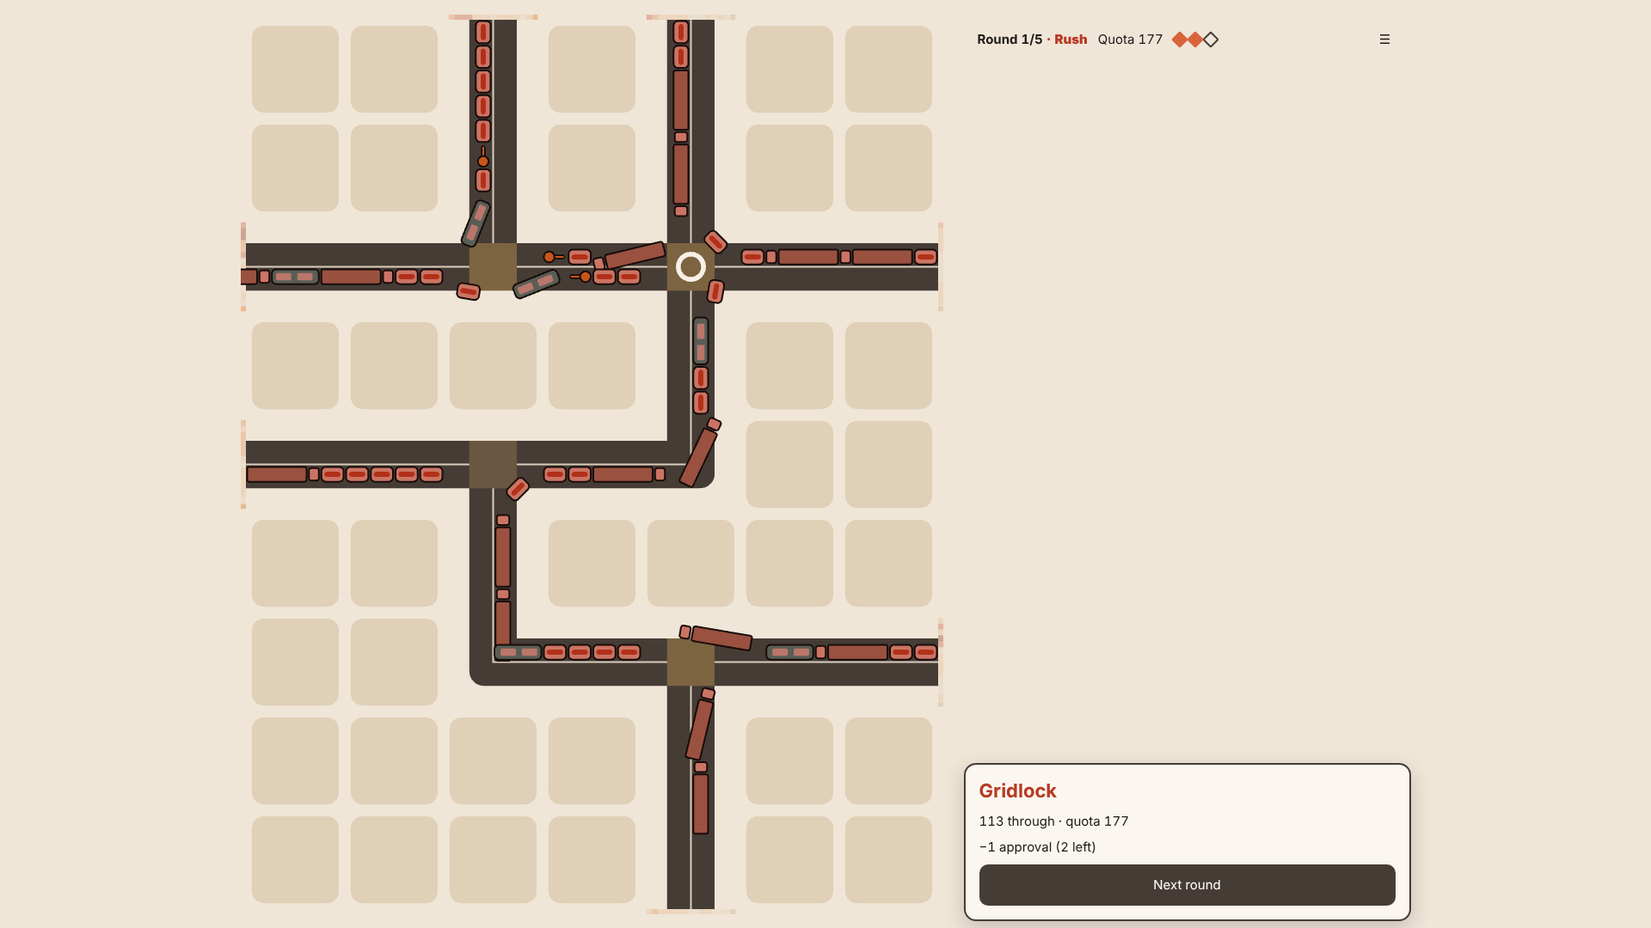
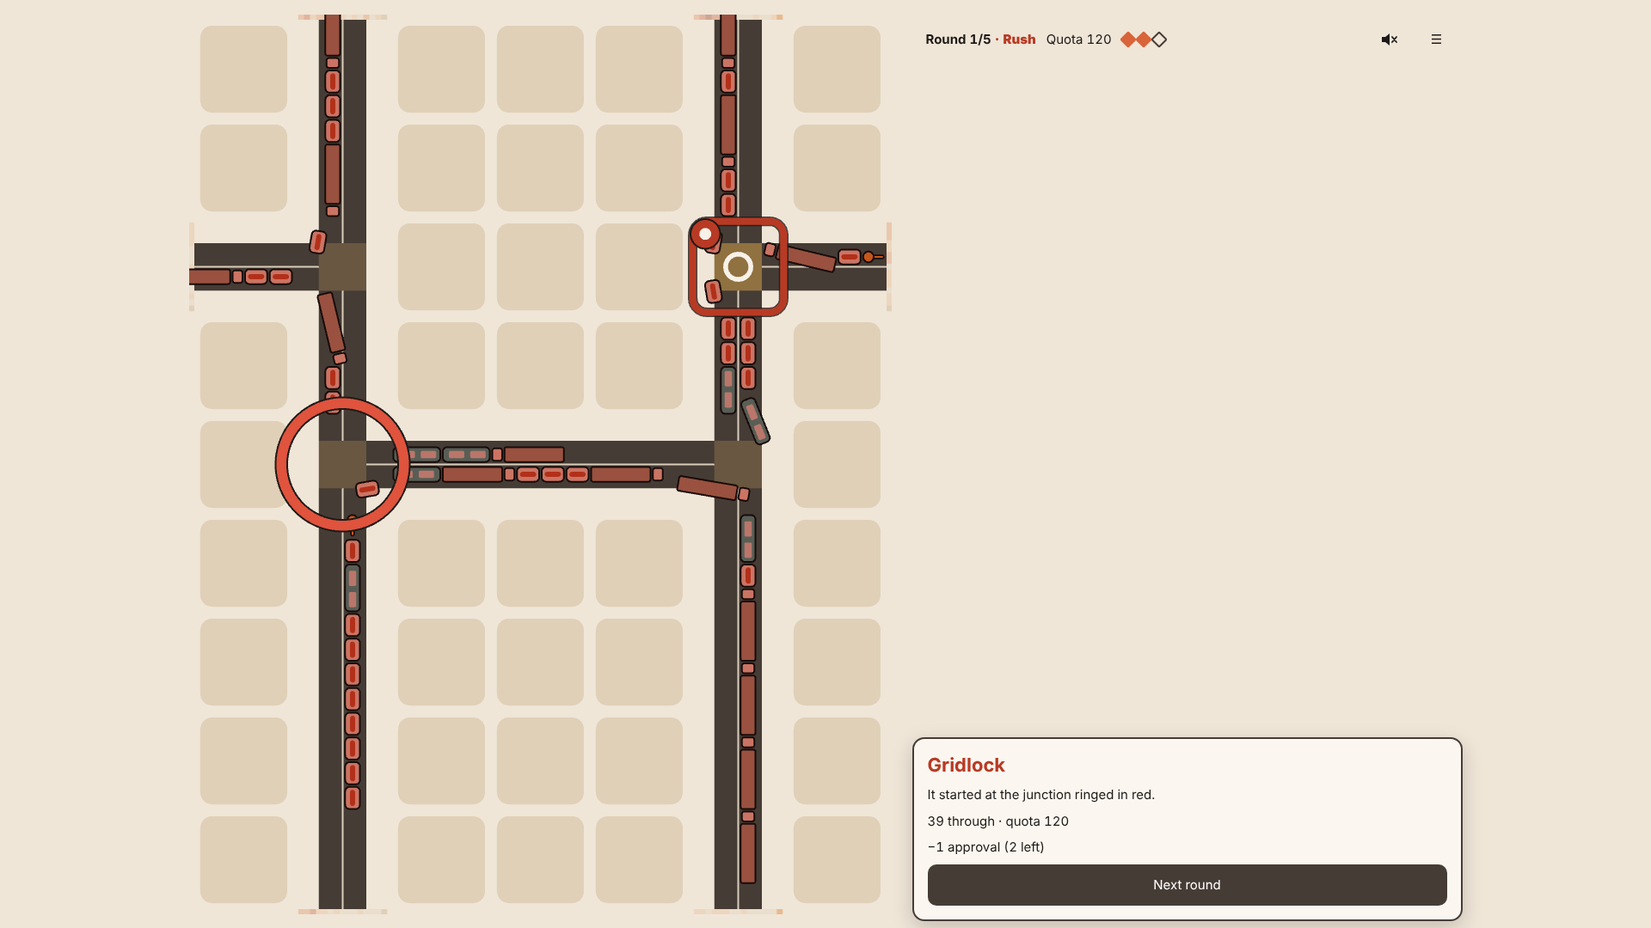
test(web): steam shots with the gridlock ring, e2e-10 origin check, gate page at 72bb91f
- Store shots re-taken at 72bb91f (#89, #90). The gridlock scene picks
  the lowest seed whose Market Day round still gridlocks with the placed
  card (seed 6) and requires H2 data-gridlock-origin, so the ring shows.
- E2E-10 plays round by round and checks data-gridlock-origin: set on
  the gridlocked round's result only, empty on every place phase.
- Gate page refreshed at 72bb91f: CI green, soak clean, no fixme left,
  shots re-taken, and the latest.md deliverables row cites 8274c2c (#87).

Claude-Session: https://claude.ai/code/session_011DFm8xVJg2F21LdZFEKgmC

Changed region(s): [[0.0938, 0.0, 0.875, 1.0]]

diff --git a/packages/platform-web/e2e/store/run-screen.spec.ts b/packages/platform-web/e2e/store/run-screen.spec.ts
@@ -16,8 +16,16 @@ import { attr, openToy, pressGo, selectPlayable, skipOffer, state } from '../toy
 
 const OUT = fileURLToPath(new URL('../../../../docs/store/screenshots/', import.meta.url));
 
-/** The Market Day clip's seed (tools/clip MARKET_DAY_SEED): with Roundabout, round 1 still jams. */
-const JAM_SEED = 93;
+/**
+ * Seeds whose round 1 (Market Day) gridlocks with no cards, lowest first. The shot places one card,
+ * which can cure the jam, so the spec takes the first of these that still gridlocks with it.
+ */
+function jamSeeds(): number[] {
+  const out: number[] = [];
+  for (let seed = SEED_RANGE.from; seed <= SEED_RANGE.to && out.length < 8; seed++)
+    if (noCardRun(seed).rounds[0]?.gridlocked) out.push(seed);
+  return out;
+}
 
 async function shot(page: Page, name: string): Promise<void> {
   // Let the scene draw a few frames after the last state change.
@@ -47,20 +55,27 @@ test.beforeAll(() => {
 });
 
 test('Market Day: place a card, watch it jam, gridlock', async ({ page }) => {
-  await openToy(page, JAM_SEED);
-  await selectPlayable(page);
-  await page.keyboard.press('ArrowRight'); // ghost preview on a target
-  await expect(state(page)).not.toHaveAttribute('data-cursor', '');
-  await shot(page, '1-place');
+  for (const seed of jamSeeds()) {
+    await openToy(page, seed);
+    await selectPlayable(page);
+    await page.keyboard.press('ArrowRight'); // ghost preview on a target
+    await expect(state(page)).not.toHaveAttribute('data-cursor', '');
+    await shot(page, '1-place');
 
-  await page.keyboard.press('Enter');
-  await expect(state(page)).not.toHaveAttribute('data-placed', '');
-  await pressGo(page);
-  await page.waitForTimeout(6_000);
-  await shot(page, '2-rush');
+    await page.keyboard.press('Enter');
+    await expect(state(page)).not.toHaveAttribute('data-placed', '');
+    await pressGo(page);
+    await page.waitForTimeout(6_000);
+    await shot(page, '2-rush');
 
-  await expect(state(page)).not.toHaveAttribute('data-phase', 'go', { timeout: 120_000 });
-  await shot(page, '3-gridlock');
+    await expect(state(page)).not.toHaveAttribute('data-phase', 'go', { timeout: 120_000 });
+    // The scene rings the junction where the jam began (#90); H2 names it.
+    if ((await attr(page, 'gridlock-origin')) === '') continue;
+    await shot(page, '3-gridlock');
+    console.log(`[store] gridlock shots from seed ${seed}`);
+    return;
+  }
+  throw new Error('no seed gridlocks round 1 with the placed card');
 });
 
 test('a pass, the card offer, the Parade, and the run end', async ({ page }) => {

diff --git a/packages/platform-web/e2e/toy/toy.spec.ts b/packages/platform-web/e2e/toy/toy.spec.ts
@@ -272,7 +272,24 @@ test.describe('toy flow', () => {
       test.setTimeout(120_000);
       const run = need('gridlock');
       await openToy(page, run.seed);
-      await playNoCards(page);
+      // Played round by round (playNoCards without the shortcut) to read H2
+      // `data-gridlock-origin` on each result: the junction the scene rings (#90), set only
+      // after a gridlock and cleared when the next place phase starts.
+      const origins: string[] = [];
+      while ((await attr(page, 'phase')) === 'place') {
+        await expect(state(page)).toHaveAttribute('data-gridlock-origin', '');
+        await pressGo(page);
+        await holdRound(page);
+        await expect(state(page)).toHaveAttribute('data-phase', /result|end/);
+        origins.push(await attr(page, 'gridlock-origin'));
+        await skipOffer(page);
+      }
+      await expect(state(page)).toHaveAttribute('data-phase', 'end');
+      run.rounds.forEach((r, i) => {
+        const at = `seed ${run.seed} round ${i + 1}`;
+        if (r.gridlocked) expect(origins[i], at).toMatch(/^\d+,\d+$/);
+        else expect(origins[i], at).toBe('');
+      });
       const marks = (await attr(page, 'history')).split(',');
       expect(marks, `seed ${run.seed}`).toEqual(run.rounds.map((r) => r.mark));
       const share = (await page.getByLabel('Share text').textContent()) ?? '';

diff --git a/docs/release/phase-1-gate.md b/docs/release/phase-1-gate.md
@@ -1,6 +1,6 @@
 # Phase 1 gate: go / no-go
 
-**DRAFT (P1-QA-04).** Evidence as of 2026-10-11, `main` at 061bb07 (after CON-06, #87). QA keeps this page current until the
+**DRAFT (P1-QA-04).** Evidence as of 2026-10-11, `main` at 72bb91f (after the HUD fix #89 and the readability pass #90). QA keeps this page current until the
 gate review. It does not recommend go or no-go.
 
 GDD §13: the validation toy passes when **two of the four criteria pass. Idan decides go/no-go.**
@@ -28,7 +28,7 @@ after those steps, so his sign-off comes first.
 | --- | ----------------------------------------- | -------------------------------------------------------------------------------------------------- | --------------------------------- | ----------------------------------------------------------------------------------------------------------------------------------------------------------------------------------------------------------------------------------------------------------------------------------------------------- | ---------------------------------------------------------------------------------------------------------------------------------------------------------------------------------------------------------------------------------------------------------------------------------------------------------------------------------------------------------------------- |
 | 1   | 200+ itch plays, median session > 2 min   | ≥ 200 plays (itch's count) and median session > 120 s, over 14 days from the first public post     | **Pending** (needs real players)  | Nothing yet. `/ingest` and the session query exist (#20). Analytics stay off until the policy is published (#77).                                                                                                                                                                                     | **Idan:** publish the privacy policy, make the itch page public, post. **Backend:** deploy `/ingest` on Idan's Cloudflare account and run the session query on day 15. **Idan:** export itch's play count. If the window opens before the policy is live, this is "not measured", not "fail".                                                                          |
 | 2   | 5 archetypes with 35–65% win rates in sim | All five `archetype(tag)` bots in 35–65%, 10,000 12-round D1 runs each, at the itch build's commit | **Provisional pass (5 of 5)**     | [`docs/balance/latest.md`](../balance/latest.md), regenerated at `8274c2c` (#87): FLOW 43.4%, MASS 45.3%, TOLL 51.3%, CHAOS 50.8%, TEMPO 37.7%, the same as at `28f6aee` (#76), because CON-06's demand factor is toy-only (ADR-032). TEMPO has the least margin, 2.7 points above the floor.         | **QA:** re-run the report at the commit of the itch build Idan signs off (the 10,000-seed nightly takes about 1 h 05 min on the CI runner, run 38098907063). Check it is byte-identical to the nightly's, and add the purity flags. **Reviewer:** sign the re-run (§14). Any later content or sim change that reaches full runs needs a new report before this counts. |
-| 3   | 500 Steam wishlists in 14 days            | Net wishlists ≥ 500 at day 14 after the "Coming soon" page is public                               | **Pending** (needs a public page) | Copy: [`docs/store/steam.md`](../store/steam.md). Run-screen screenshots at 1920×1080: [`docs/store/screenshots/`](../store/screenshots/) (#80). Capsules, library art and background: generated by `pnpm --filter @rushwarden/clip run store-assets` ([`docs/store/assets.md`](../store/assets.md)). | **QA:** re-shoot the run-screen screenshots at the signed-off commit (they predate CON-06's toy quotas). **Idan:** Steamworks account and app fee (ADR-006), page review with Valve, then the day-15 wishlist export.                                                                                                                                                  |
+| 3   | 500 Steam wishlists in 14 days            | Net wishlists ≥ 500 at day 14 after the "Coming soon" page is public                               | **Pending** (needs a public page) | Copy: [`docs/store/steam.md`](../store/steam.md). Run-screen screenshots at 1920×1080: [`docs/store/screenshots/`](../store/screenshots/) (#80). Capsules, library art and background: generated by `pnpm --filter @rushwarden/clip run store-assets` ([`docs/store/assets.md`](../store/assets.md)). | **QA:** re-shoot the run-screen screenshots at the signed-off commit if the run screen changes again. **Idan:** Steamworks account and app fee (ADR-006), page review with Valve, then the day-15 wishlist export.                                                                                                                                                     |
 | 4   | Poki player-fit ≥ 25% at 3 min            | Share of players still playing at 3:00, from Poki's report                                         | **Pending** (needs a submission)  | Poki adapter and build (`build:poki`, #16); submission package and checks (`package:poki`, #82). Free-demo terms accepted (ADR-024 decision 2). Description: [`docs/store/portals.md`](../store/portals.md).                                                                                          | **Idan:** ask Poki the open questions in ADR-024, then submit. **QA:** copy the report's figures without converting them. Risk (test plan §4.4): a run lasts about 3 min, so the retry must be the obvious next action.                                                                                                                                                |
 
 **2 of 4 needed; Idan decides go/no-go.** Today, criterion 2 is a provisional pass, and the other
@@ -39,22 +39,22 @@ three need real players or public pages.
 | Deliverable                | State                                                                                                                                                                                                                                                                                                                     | Owner              |
 | -------------------------- | ------------------------------------------------------------------------------------------------------------------------------------------------------------------------------------------------------------------------------------------------------------------------------------------------------------------------- | ------------------ |
 | itch build                 | - [x] Zip is built and size-checked on every push (`package:itch`, `rushwarden-itch-<sha>` artifact, #25, #59).<br>- [x] Manual deploy to the draft channel exists (`itch-deploy.yml`, #40).<br>- [ ] Release bar met (below).<br>- [ ] Idan's sign-off.<br>- [ ] Page public (Idan).                                     | Platform, QA, Idan |
-| `docs/balance/latest.md`   | - [x] 10,000-seed report, 5 of 5 archetypes in range (#76, `28f6aee`).<br>- [ ] Re-run at the itch build's commit, with the reviewer's byte-identical check.                                                                                                                                                              | QA, Reviewer       |
+| `docs/balance/latest.md`   | - [x] 10,000-seed report, 5 of 5 archetypes in range, regenerated at `8274c2c` (#87; same rates as #76 at `28f6aee`).<br>- [ ] Re-run at the itch build's commit, with the reviewer's byte-identical check.                                                                                                               | QA, Reviewer       |
 | GIF                        | - [x] Market Day clip from the replay: seed 4 since CON-06 (#87), round 1, 9:16 MP4 and GIF. CI uploads both (ADR-028).<br>- [ ] Rendered from the same commit as the signed-off build.                                                                                                                                   | QA                 |
 | Reddit copy                | - [x] Drafts for the four subs in [`docs/store/reddit.md`](../store/reddit.md).<br>- [ ] Idan's voice pass.<br>- [ ] The example share line replaced with a real one.<br>- [ ] Posted by Idan.                                                                                                                            | QA, Idan           |
-| Steam copy and assets      | - [x] Copy draft, current Steam sizes (ADR-029).<br>- [x] Run-screen screenshots at 1920×1080 (#80).<br>- [ ] Re-shot at the signed-off commit.<br>- [ ] Page submitted by Idan.                                                                                                                                          | QA, Idan           |
+| Steam copy and assets      | - [x] Copy draft, current Steam sizes (ADR-029).<br>- [x] Run-screen screenshots at 1920×1080 (#80), re-shot at 72bb91f with the gridlock ring.<br>- [ ] Re-shot again if the run screen changes before sign-off.<br>- [ ] Page submitted by Idan.                                                                        | QA, Idan           |
 | Poki / CrazyGames packages | - [x] Adapters and `build:poki` / `build:crazygames` (#16).<br>- [x] Portal rules: no ads, no own analytics, no sales (ADR-024, #39).<br>- [x] Descriptions drafted.<br>- [x] Submission packages and checks (`package:poki`, `package:crazygames`, #82).<br>- [ ] Portal questions answered.<br>- [ ] Submitted by Idan. | Platform, QA, Idan |
 
 ## Itch release bar (test plan §5)
 
-| Item                                   | State                                                                                                                                                                                                                                        |
-| -------------------------------------- | -------------------------------------------------------------------------------------------------------------------------------------------------------------------------------------------------------------------------------------------- |
-| CI green on `main`                     | Yes at 061bb07 (CI run 38112793352 and the Clip run 38112793425). The UI touch e2e flake (`packages/ui` run.spec.ts:115) was fixed in #85.                                                                                                   |
-| E2E-01–13 and 15–16 pass               | Yes. The `web` and `toy-e2e` jobs run them on every PR. E2E-17 (#73) and E2E-18 (#72) run too. E2E-14 (sound only after a gesture) is the last fixme; it runs from #88 (in review), now that audio is wired (#86).                           |
-| 500-run soak                           | Clean at 061bb07 (local run, `tools/soak` from #83): 500 of 500 runs, headless, 2397 rounds, heap growth 0.4 MB (limit 2 MB), 45 s. The itch deploy workflow runs it again before every upload; the bar is that run on the signed-off build. |
-| 3 "Must" devices (test plan §3.2)      | **Pending.** Idan runs the device checklist with QA, recorded in `docs/release/phase-1-devices.md`.                                                                                                                                          |
-| No open P0 / P1                        | None open as of this draft.                                                                                                                                                                                                                  |
-| Privacy policy live if `/ingest` is on | Analytics are off until it is published (#77).                                                                                                                                                                                               |
+| Item                                   | State                                                                                                                                                                                                                                    |
+| -------------------------------------- | ---------------------------------------------------------------------------------------------------------------------------------------------------------------------------------------------------------------------------------------- |
+| CI green on `main`                     | Yes at 72bb91f (CI run 38121307938 and the Clip run 38121307950).                                                                                                                                                                        |
+| E2E-01–13 and 15–16 pass               | Yes. The `web` and `toy-e2e` jobs run them on every PR, with E2E-14 (#88), E2E-17 (#73) and E2E-18 (#72): no spec is fixme. E2E-10 also checks the gridlock origin (#90).                                                                |
+| 500-run soak                           | Clean at 72bb91f (local run, `tools/soak`, #83): 500 of 500 runs, headless, 2397 rounds, heap growth 0.4 MB (limit 2 MB), 47 s. The itch deploy workflow runs it again before every upload; the bar is that run on the signed-off build. |
+| 3 "Must" devices (test plan §3.2)      | **Pending.** Idan runs the device checklist with QA, recorded in `docs/release/phase-1-devices.md`.                                                                                                                                      |
+| No open P0 / P1                        | None open as of this draft.                                                                                                                                                                                                              |
+| Privacy policy live if `/ingest` is on | Analytics are off until it is published (#77).                                                                                                                                                                                           |
 
 ## Caveats Idan should read
 
@@ -62,7 +62,8 @@ three need real players or public pages.
   the toy also scales each map's demand and quota (ADR-032), which full runs do not. A pass means the archetypes are viable in the
   sim, not that the toy is balanced. The toy's own report ([`toy-con-06.md`](../balance/toy-con-06.md), 2,000 seeds per bot at
   `8274c2c`) has all five archetypes at 45–57% and the no-cards bot at 20.1%.
-- **The feel report predates CON-06.** It found 38% of toy rounds gridlocked. In the soak at 061bb07, 348 of 2397 toy rounds
-  gridlocked (15%), against 854 of 2265 (38%) before #87. Idan's playtest is on the new curve.
+- **The feel report predates CON-06 and the readability pass.** It found 38% of toy rounds gridlocked. In the soak at 72bb91f, 348
+  of 2397 toy rounds gridlocked (15%), against 854 of 2265 (38%) before #87. Its pillar 1 finding (a jam can't be traced to a
+  card) is what #90 answers: the gridlock rings the junction where it began and the result names it. Idan's playtest is on both.
 - **The toy run lasts about 3 minutes.** Poki's 3-minute mark falls at the end of a first run, so criterion 4 depends on how many
   players start a second run.

diff --git a/docs/store/assets.md b/docs/store/assets.md
@@ -91,16 +91,17 @@ WEB_E2E_PORT=4831 CI=1 pnpm --filter @rushwarden/platform-web run store-shots
 `store-shots` is a Playwright spec (`packages/platform-web/e2e/store/`) that plays the toy
 through the test hooks, as the e2e does. It exists only with `STORE_SHOTS=1`, so CI never runs
 it. The sim is seeded, but each moment is taken by wall-clock time, so a re-run gives the same
-scenes, not byte-identical files. Re-capture after any visible UI or render change.
+scenes, not byte-identical files. Re-capture after any visible UI or render change. The current
+set is from `main` at 72bb91f, after the HUD fix (#89) and the gridlock ring and card marks (#90).
 
-| File                                 | Scene                                                                                               |
-| ------------------------------------ | --------------------------------------------------------------------------------------------------- |
-| `steam-run-1-place-1920x1080.png`    | Market Day, round 1 (seed 93): Roundabout selected, its targets highlighted, the hand and Go button |
-| `steam-run-2-rush-1920x1080.png`     | The same round 6 s into Go, with the roundabout placed and the queues building                      |
-| `steam-run-3-gridlock-1920x1080.png` | The same round's gridlock and its result: −1 approval                                               |
-| `steam-run-4-offer-1920x1080.png`    | Another seed's round 1: quota met and the 3-card offer                                              |
-| `steam-run-5-parade-1920x1080.png`   | Its round 2, the Parade, with a street closed                                                       |
-| `steam-run-6-run-end-1920x1080.png`  | Its run end, "District held", with the share line                                                   |
+| File                                 | Scene                                                                                                                                             |
+| ------------------------------------ | ------------------------------------------------------------------------------------------------------------------------------------------------- |
+| `steam-run-1-place-1920x1080.png`    | Market Day, round 1 (seed 6, the lowest that still gridlocks with the card): Roundabout selected, its targets highlighted, the hand and Go button |
+| `steam-run-2-rush-1920x1080.png`     | The same round 6 s into Go, with the roundabout's mark above the traffic and the queues building                                                  |
+| `steam-run-3-gridlock-1920x1080.png` | The same round's gridlock: the junction where it began ringed in red, and the result naming it, −1 approval                                       |
+| `steam-run-4-offer-1920x1080.png`    | Another seed's round 1: quota met and the 3-card offer                                                                                            |
+| `steam-run-5-parade-1920x1080.png`   | Its round 2, the Parade, with a street closed                                                                                                     |
+| `steam-run-6-run-end-1920x1080.png`  | Its run end, "District held", with the share line                                                                                                 |
 
 The second seed is the lowest whose no-card run passes round 1 and gets furthest (the spec finds
 it headlessly), so the run end shows a full row of squares. The cards in those shots are not

diff --git a/docs/release/phase-1-test-plan.md b/docs/release/phase-1-test-plan.md
@@ -78,7 +78,8 @@ projects unless the row says otherwise, in `packages/platform-web/e2e/toy/`. Per
 - `phone-webkit` runs the whole suite nightly.
 
 E2E-04 compares paused frames with reduced motion on, because the §7 queue pulse keeps animating
-while paused.
+while paused. E2E-10 also checks H2 `data-gridlock-origin` (#90): set to the ringed junction on a
+gridlocked round's result, and empty on every other result and every place phase.
 
 | ID     | Flow                                   | Steps                                                                                                           | Pass when                                                                                                                                                            |
 | ------ | -------------------------------------- | --------------------------------------------------------------------------------------------------------------- | -------------------------------------------------------------------------------------------------------------------------------------------------------------------- |
